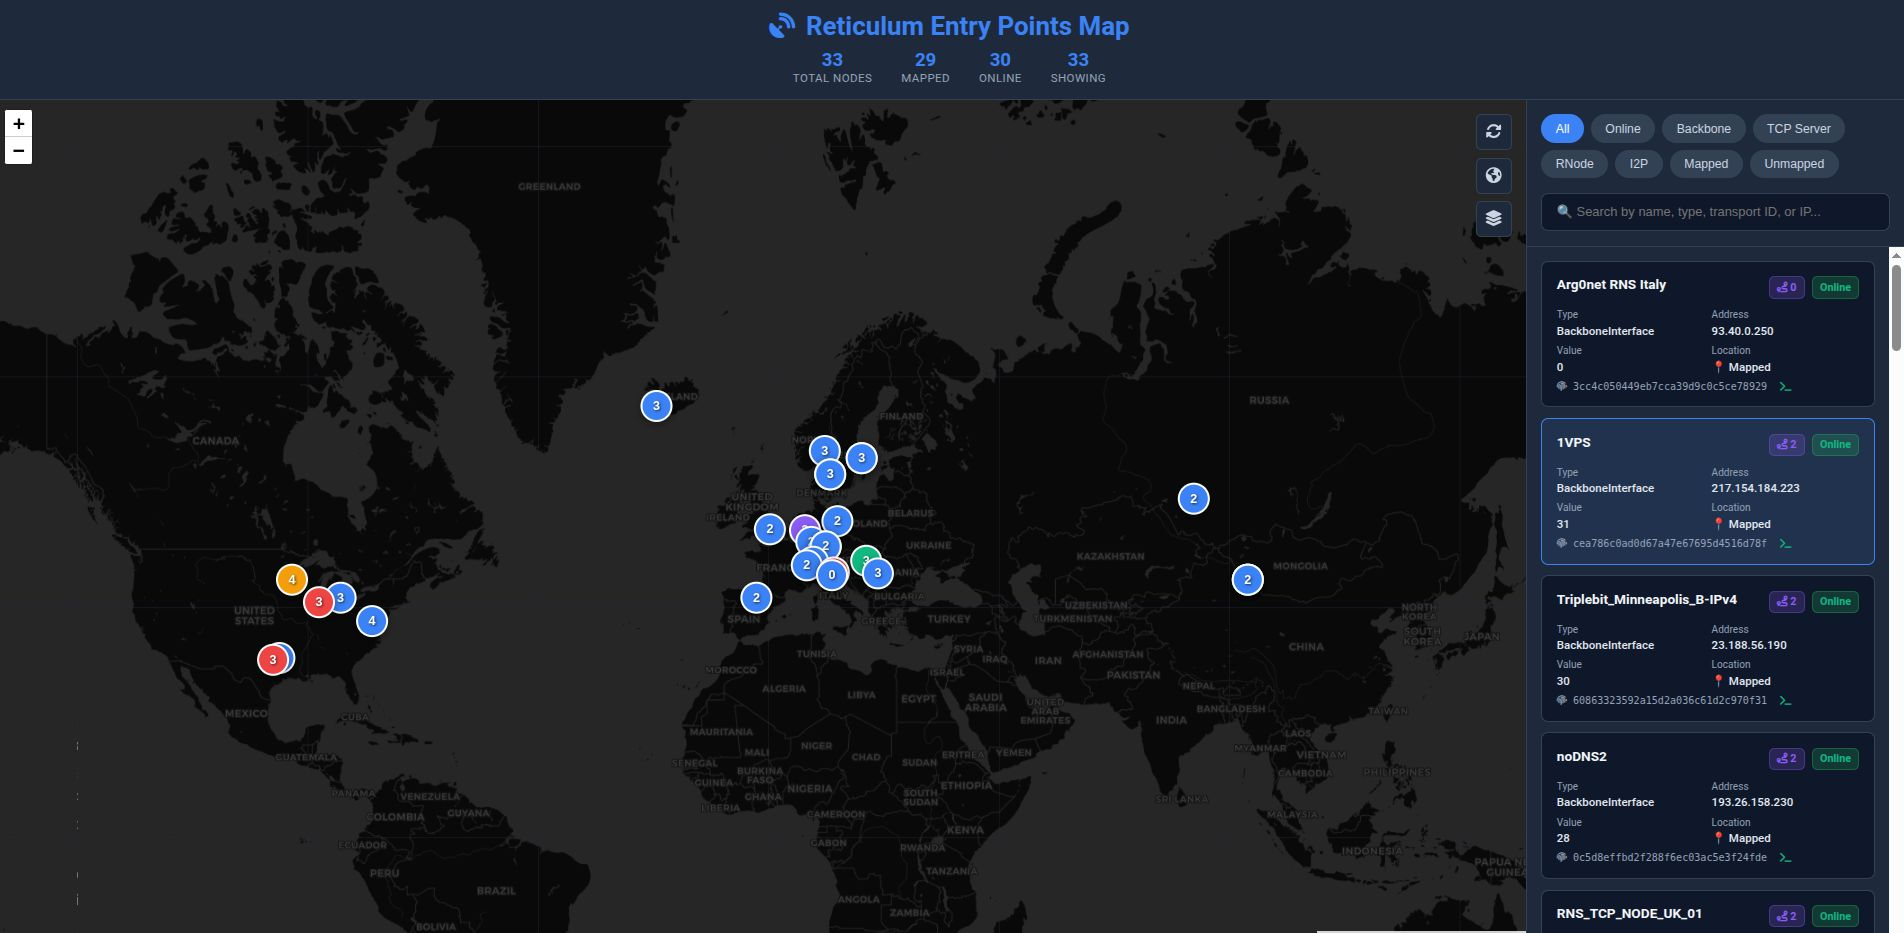
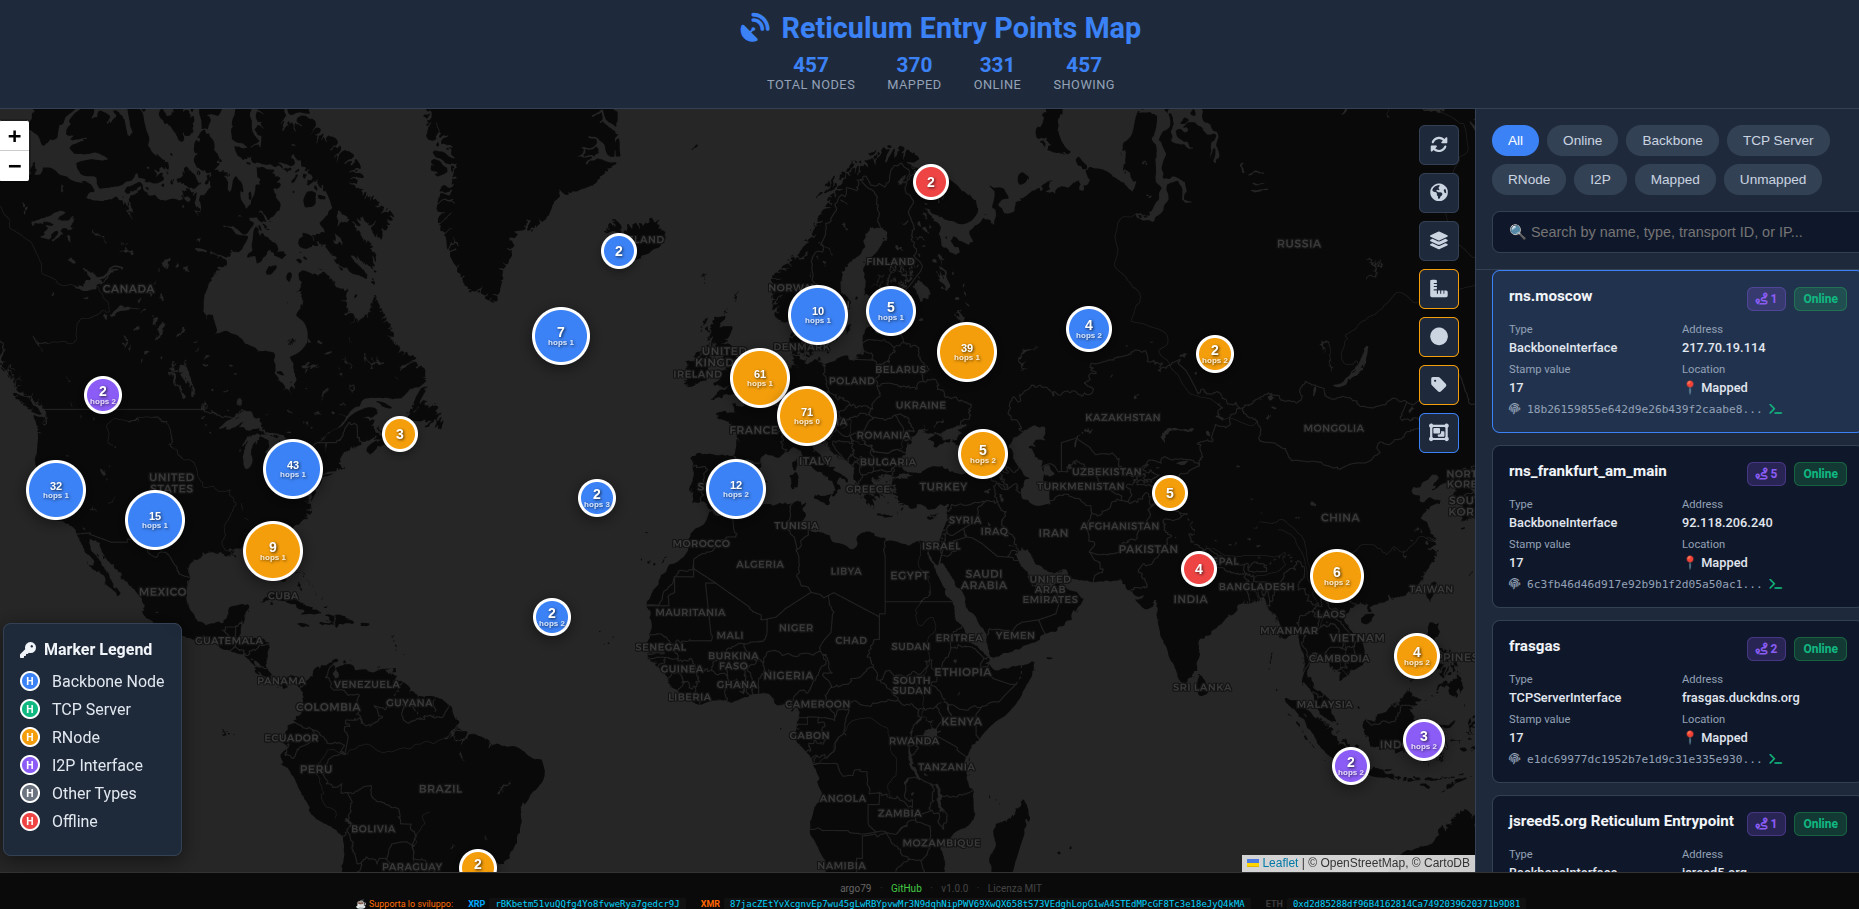
Aggiornamento Readme

diff --git a/map.html b/map.html
@@ -320,13 +320,13 @@
             }).addTo(map);
 
             clusterGroup = L.markerClusterGroup({
-                maxClusterRadius: 75,
+                maxClusterRadius: 60,
                 spiderfyOnMaxZoom: true,
                 showCoverageOnHover: false,
                 zoomToBoundsOnClick: false,
                 spiderfyDistanceMultiplier: 1.5,
                 iconCreateFunction: createClusterIcon,
-                disableClusteringAtZoom: 18,
+                disableClusteringAtZoom: 12,
                 chunkedLoading: true,
                 chunkInterval: 100,
                 chunkDelay: 50
